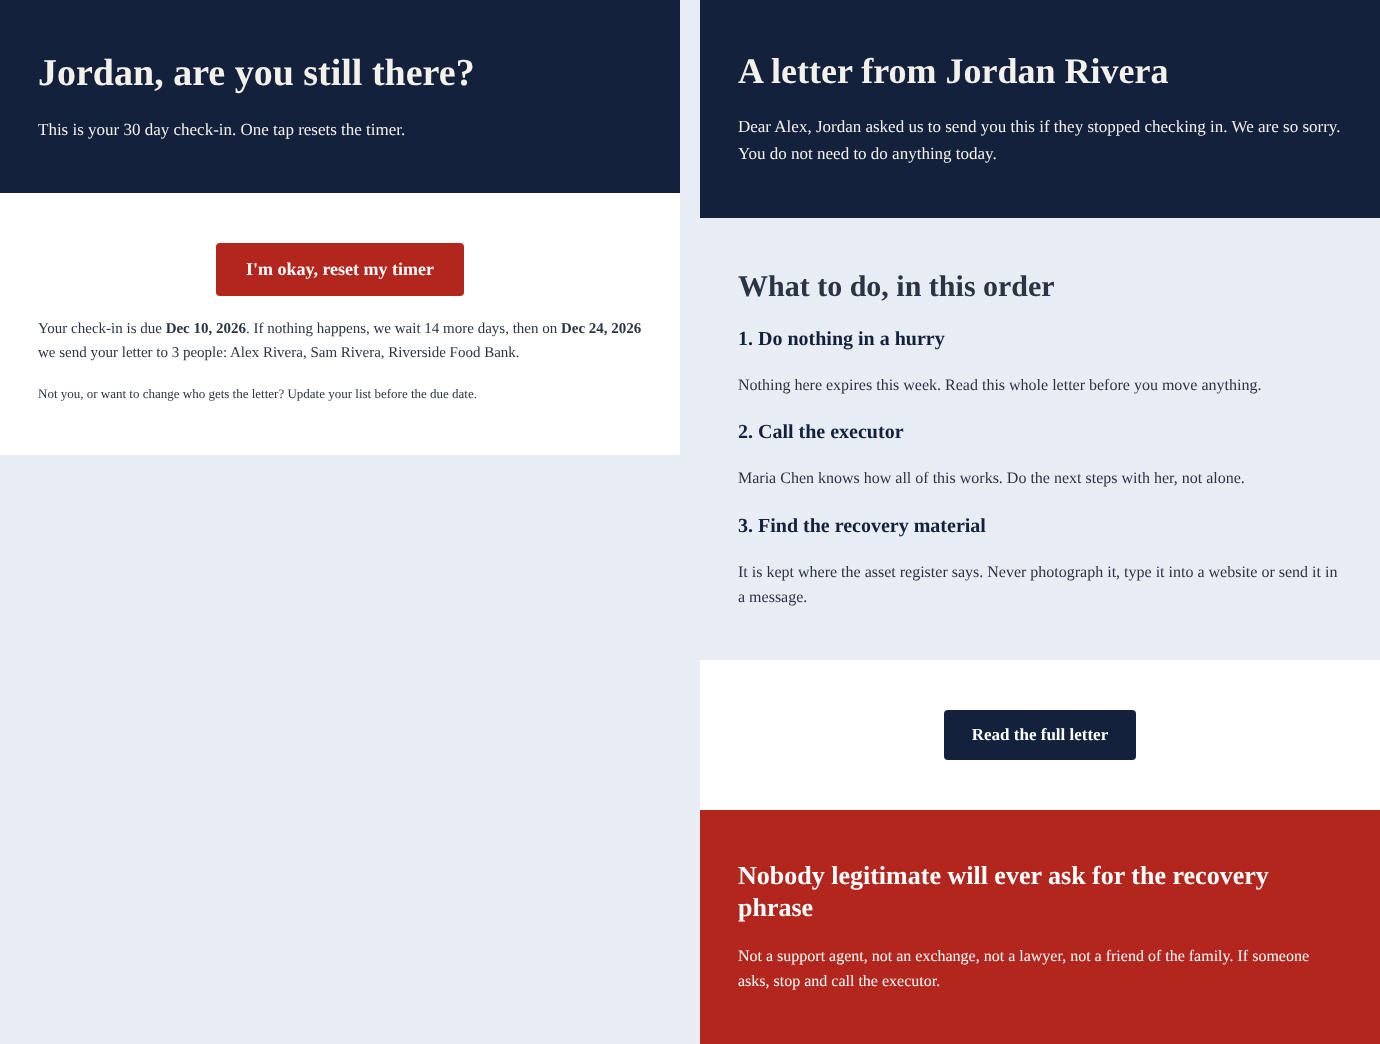
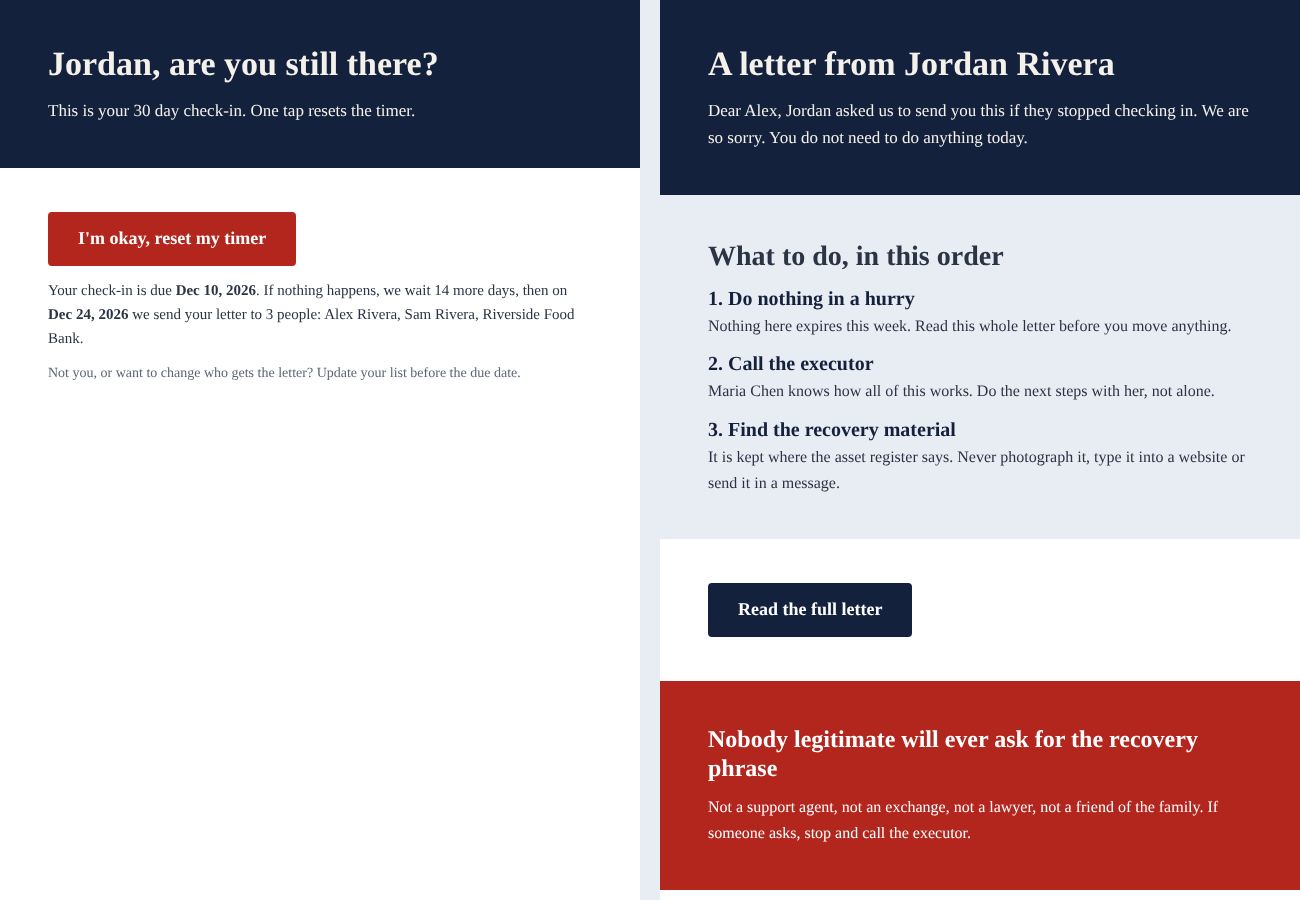
Add files via upload

diff --git a/README.md b/README.md
@@ -1,13 +1,13 @@
 # Last Will of a Wallet
 
-A crypto inheritance kit built with **Hyper Elements** (`@unlayer/react-elements`). One validated data object renders **four outputs**:
+A crypto inheritance kit built with **[`@hyper-elements/react`](https://github.com/hyper-elements/hyper-elements)**. One validated data object renders **four outputs**:
 
-| Output | Root | Purpose |
-|---|---|---|
-| Letter of instruction (PDF) | `Document` | The printable letter: asset register with where recovery material is kept, who gets what, ordered steps, signature block |
-| Walkthrough page | `Page` | A calm, slow page for heirs. Storage locations are deliberately left off it |
-| Check-in email | `Email` | The dead man's switch prompt: one tap resets the timer |
-| Heir notice email | `Email` | The first three steps, a link to the full letter, and a scam warning |
+| Output | Root | Rendered with | File |
+|---|---|---|---|
+| Letter of instruction (4 pages, Letter) | `Document` | `renderPdf()` | `out/letter-of-instruction.pdf` |
+| Heir walkthrough page | `Page` | `render()` | `out/index.html` |
+| Check-in email (the dead man's switch prompt) | `Email` | `render()` | `out/email-checkin.html` |
+| Heir notice email | `Email` | `render()` | `out/email-heir.html` |
 
 ![Walkthrough page](https://raw.githubusercontent.com/onchaindc/last-will-of-a-wallet/main/will-scroll.gif)
 
@@ -21,7 +21,7 @@ Most crypto inheritance advice assumes the heir already knows what a wallet is. 
 
 ## The safety guard
 
-`validateWill()` in `src/data.ts` refuses to build if any field looks like a secret: a 12 word recovery phrase shape, a 64 character hex private key, or a Bitcoin WIF key. It also checks that heir shares add up to 100%. The build and the tests both call it. It is a heuristic and cannot prove a file is clean, so the rule stays: describe **where** things are kept, never **what** they are.
+`validateWill()` in `src/data.ts` refuses to build if any field looks like a secret: a 12 word recovery phrase shape, a 64 character hex private key, or a Bitcoin WIF key. It also checks that heir shares add up to 100%. Both the build and the tests call it. It is a heuristic and cannot prove a file is clean, so the rule stays: describe **where** things are kept, never **what** they are.
 
 ```bash
 npm test
@@ -29,26 +29,28 @@ npm test
 
 ## How Hyper Elements is used
 
-- **One component tree, four roots.** `src/template.tsx` builds each section once (`Cover`, `Note`, `Steps`, `Register`, `Shares`, `Signatures`) and assembles them differently under `Email`, `Page` and `Document`.
-- **Output specific content.** The web page leaves out storage locations, the PDF includes them, and the heir email shows only the first three steps.
-- **Components used:** `Email`, `Page`, `Document`, `Row`, `Column`, `ColumnLayouts`, `Heading`, `Paragraph`, `Button`, `Table` (header colors, fonts and striped rows), `Divider`, `PageBreak`.
-- **Custom React components** (`Block`, `H`, `P`, `Rule`) return Elements, so the design system lives in code.
-- **`renderToHtml`** writes the four HTML files and **`renderToJson`** writes `out/design.json` for the Unlayer visual editor.
-- **PDF:** `Document` mode outputs print HTML, and `src/pdf.ts` prints it with Playwright.
+- **One theme.** `defineTheme()` in `src/theme.ts` holds the notary palette (navy, wax-seal red, mist), the serif font, the heading scale and the button style. All four roots take the same `theme`, and designs read colors with `token("colors.seal")`.
+- **Shared content, four roots.** `src/template.tsx` writes each section once (cover, note, steps, scam warning, asset register, shares, signatures) and places it in a `Document` (as `Document.Page`s, with a full-bleed navy cover), a `Page` or an `Email`.
+- **Different content per output.** The web page leaves out where recovery material is stored. The PDF includes it. The heir email shows only the first three steps. The page uses a slimmer shares table so it reads well on a phone.
+- **Real PDF.** `renderPdf()` from `@hyper-elements/react/pdf` writes the letter. No browser is needed.
+- **Tables** (`Table`, `TableRow`, `TableCell`) with navy header cells and striped rows. **Also used:** `Section`, `Column`, `Heading`, `Text`, `Span`, `Button`, `Divider`.
 
 ## Run it
 
 ```bash
-npm install
-npm run build                      # writes out/*.html and out/design.json
-npx playwright install chromium    # first time only
-npm run pdf                        # writes out/letter-of-instruction.pdf
+npm install     # also copies the font from @fontsource into public/fonts
+npm run all     # tests, then writes everything to out/
 ```
 
-Everything runs on **sample data for a fictional person** in `src/data.ts`. Replace it with your own details. The check-in timer and the sending of emails need a small backend (a cron job and an email provider), which this template does not include.
+Open `out/index.html` in a browser. Everything runs on **sample data for a fictional person** in `src/data.ts`. Replace it with your own details.
+
+## Limits
+
+- The check-in timer and sending of emails need a small backend (a scheduled job and an email provider). This template renders the content only.
+- Email clients cannot load web fonts, so the emails fall back to Georgia.
 
 ## Important
 
 This is a letter of instruction, not a legal will or financial advice. It does not transfer ownership by itself. Ask an estate lawyer how your local law treats digital assets. Never write a recovery phrase, private key or password into this project.
 
-MIT licensed.
+Font: Source Serif 4 (SIL Open Font License). MIT licensed.
